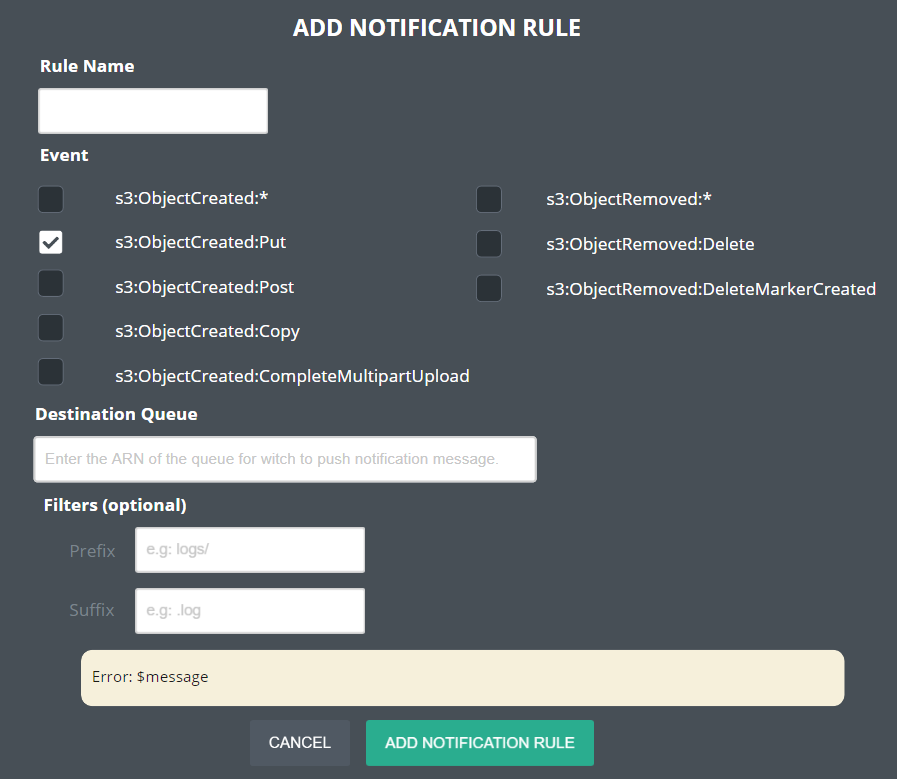
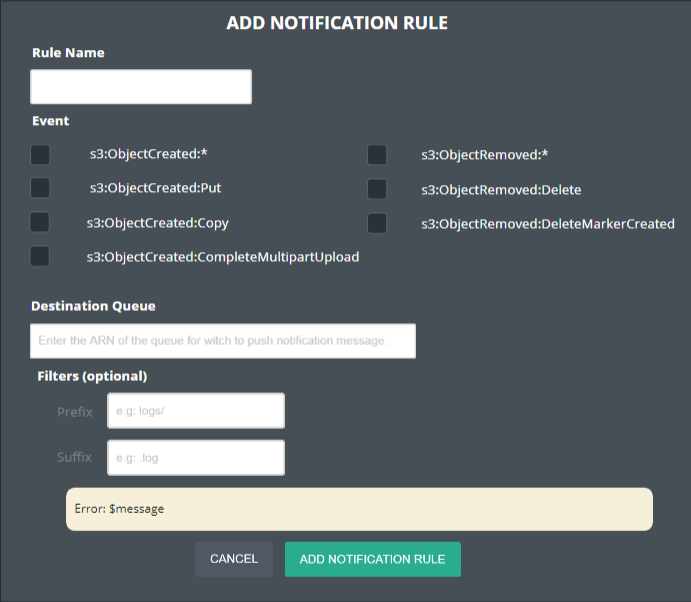
feature: S3C-3157 remove the unsupported notification from UI mockups/design

diff --git a/docs/design/bucket-notification.md b/docs/design/bucket-notification.md
@@ -78,13 +78,14 @@ Event types that will need to support:
 
 Event | Description
 ------|------------
-`s3:ObjectCreated:*`, `s3:ObjectCreated:Put`, `s3:ObjectCreated:Post`, `s3:ObjectCreated:Copy`, `s3:ObjectCreated:CompleteMultipartUpload` | Will generate an event respectively every time an object is created (whatever the operation type), written, created, copied, MPU constituted.
+`s3:ObjectCreated:*`, `s3:ObjectCreated:Put`, `s3:ObjectCreated:Copy`, `s3:ObjectCreated:CompleteMultipartUpload` | Will generate an event respectively every time an object is created (whatever the operation type), written, copied, MPU constituted.
 `s3:ObjectRemoved:*`, `s3:ObjectRemoved:Delete`, `s3:ObjectRemoved:DeleteMarkerCreated` | Will generate an event respectively every time an object is deleted (whatever the operation type), deleted, or a delete marker is created.
 
 Event types that will need to support eventually (in future releases):
 
 Event | Description
 ------|------------
+`s3:ObjectCreated:Post` |  Will generate an event every time an object is created.
 `s3:ObjectRestore:Post`, `s3:ObjectRestore:Completed`| Will generate an event when an object will be restored from an archival storage (e.g. tape, or Glacier)
 `s3:Replication:OperationFailedReplication`, `s3:Replication:OperationMissedThreshold`, `s3:Replication:OperationReplicatedAfterThreshold`, `s3:Replication:OperationNotTracked` | Specific replication related events.
 
